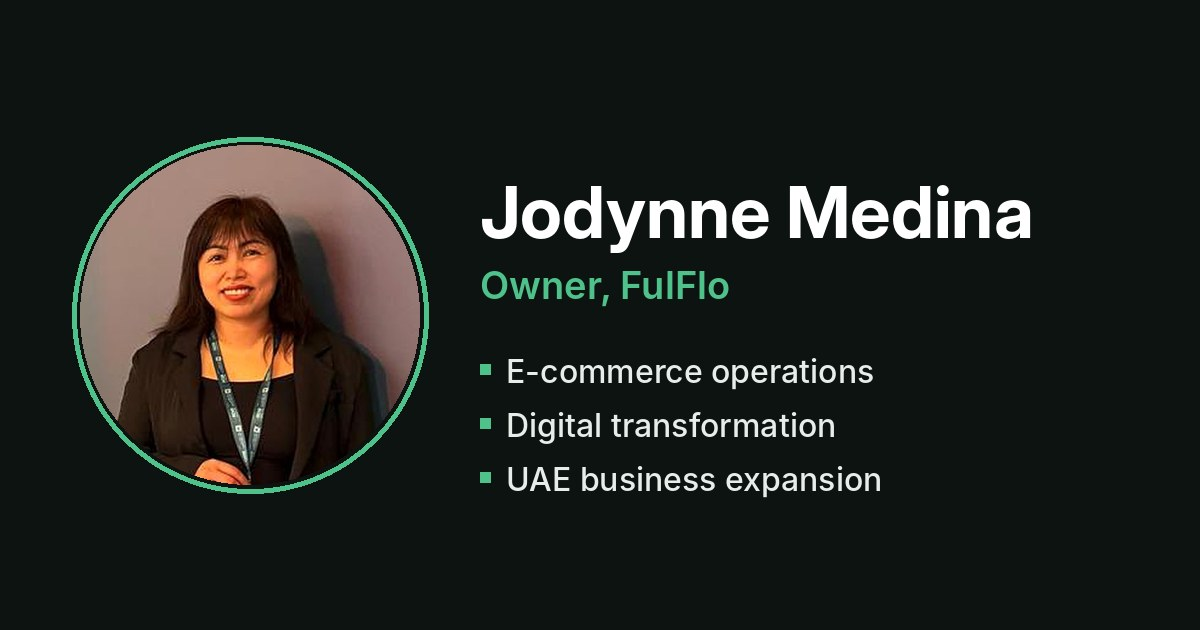
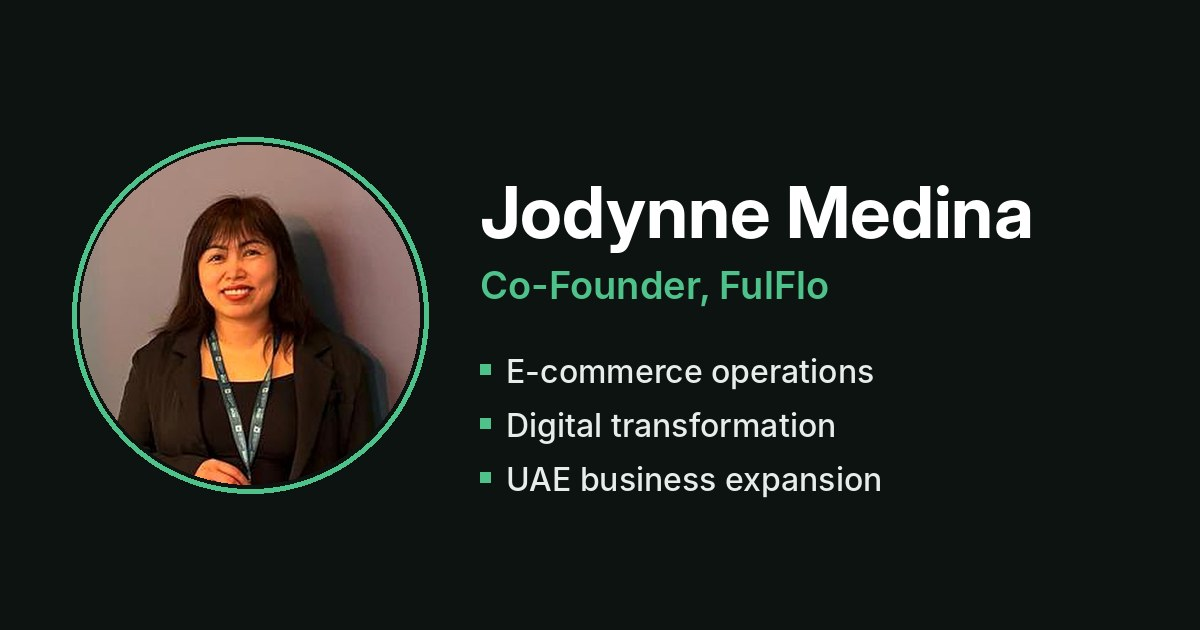
Change Jodynne's title from Owner to Co-Founder
Claude-Session: https://claude.ai/code/session_01RLzVCgzkY8iDysnY179QRm

Changed region(s): [[0.4008, 0.4222, 0.7092, 0.4825]]

diff --git a/index.html b/index.html
@@ -3,17 +3,17 @@
 <head>
 <meta charset="utf-8">
 <meta name="viewport" content="width=device-width, initial-scale=1, viewport-fit=cover">
-<title>Jodynne Medina · Owner, FulFlo</title>
-<meta name="description" content="Jodynne Medina, owner of FulFlo. E-commerce operations, digital transformation and UAE business expansion for growing brands.">
+<title>Jodynne Medina · Co-Founder, FulFlo</title>
+<meta name="description" content="Jodynne Medina, co-founder of FulFlo. E-commerce operations, digital transformation and UAE business expansion for growing brands.">
 <link rel="canonical" href="https://ahmadahhamid.github.io/jodynne-medina/">
 <meta property="og:type" content="profile">
-<meta property="og:title" content="Jodynne Medina · Owner, FulFlo">
+<meta property="og:title" content="Jodynne Medina · Co-Founder, FulFlo">
 <meta property="og:description" content="E-commerce operations, digital transformation and UAE business expansion. Let's connect.">
 <meta property="og:url" content="https://ahmadahhamid.github.io/jodynne-medina/">
 <meta property="og:image" content="https://ahmadahhamid.github.io/jodynne-medina/og-image.jpg">
 <meta property="og:image:width" content="1200">
 <meta property="og:image:height" content="630">
-<meta property="og:image:alt" content="Jodynne Medina, Owner of FulFlo">
+<meta property="og:image:alt" content="Jodynne Medina, Co-Founder of FulFlo">
 <meta name="twitter:card" content="summary_large_image">
 <meta name="theme-color" content="#F3F5F1" media="(prefers-color-scheme: light)">
 <meta name="theme-color" content="#0D1311" media="(prefers-color-scheme: dark)">
@@ -379,12 +379,12 @@ a { color: inherit; }
       <img class="avatar" src="avatar.jpg" alt="Portrait of Jodynne Medina" width="104" height="104">
       <div class="id-text">
         <h1 class="name">Jodynne Medina</h1>
-        <p class="role">Owner, FulFlo</p>
+        <p class="role">Co-Founder, FulFlo</p>
       </div>
     </div>
 
     <p class="thesis">I help growing brands run tighter e-commerce operations and expand into the UAE.</p>
-    <p class="sub">FulFlo, my Dubai-based platform, brings inventory, orders, warehousing, shipping and CRM into one system for brands selling across the GCC.</p>
+    <p class="sub">FulFlo, the Dubai-based platform I <span style="white-space:nowrap">co-founded</span>, brings inventory, orders, warehousing, shipping and CRM into one system for brands selling across the GCC.</p>
 
     <div class="actions">
       <a class="btn btn-primary" href="jodynne-medina.vcf">Save to contacts</a>
@@ -439,7 +439,7 @@ a { color: inherit; }
   </section>
 
   <section class="block" aria-labelledby="ff-h">
-    <p class="eyebrow">What I'm building</p>
+    <p class="eyebrow">What we're building</p>
     <h2 id="ff-h" class="h2">FulFlo</h2>
     <p>A Dubai-based e-commerce operations platform for GCC brands. It connects Shopify, WooCommerce, Amazon.ae and Noon with regional couriers such as Aramex and SMSA, alongside managed e-commerce and 3PL services for brands that want hands-on support.</p>
     <a class="text-link" href="https://fulflo.io" target="_blank" rel="noopener">Visit fulflo.io ↗</a>
@@ -466,7 +466,7 @@ a { color: inherit; }
       </div>
       <dl class="fields" id="fields">
         <div class="field"><dt>Name</dt><dd>Jodynne Medina</dd></div>
-        <div class="field"><dt>Role</dt><dd>Owner, FulFlo</dd></div>
+        <div class="field"><dt>Role</dt><dd>Co-Founder, FulFlo</dd></div>
         <div class="field"><dt>Email</dt><dd><a href="mailto:business@fulflo.io?subject=We%20met%20at%20The%20Small%20Business%20Summit%202026" id="v-email">business@fulflo.io</a><button class="copy" type="button" data-copy="email" aria-label="Copy email address">Copy</button></dd></div>
         <div class="field"><dt>Phone</dt><dd><a href="tel:+14166162977" id="v-phone">+1 416 616 2977</a><button class="copy" type="button" data-copy="phone" aria-label="Copy phone number">Copy</button></dd></div>
         <div class="field"><dt>LinkedIn</dt><dd><a href="https://www.linkedin.com/in/jody-medina-396823169/" target="_blank" rel="noopener">jody-medina ↗</a></dd></div>
@@ -493,7 +493,7 @@ a { color: inherit; }
     phone: "+1 416 616 2977",
     all: [
       "Jodynne Medina",
-      "Owner, FulFlo",
+      "Co-Founder, FulFlo",
       "Email: business@fulflo.io",
       "Phone: +1 416 616 2977",
       "LinkedIn: https://www.linkedin.com/in/jody-medina-396823169/",

diff --git a/README.md b/README.md
@@ -1,5 +1,5 @@
 # Jodynne Medina
 
-Portfolio of Jodynne Medina, Owner of FulFlo.
+Portfolio of Jodynne Medina, Co-Founder of FulFlo.
 
 Live at https://ahmadahhamid.github.io/jodynne-medina/
